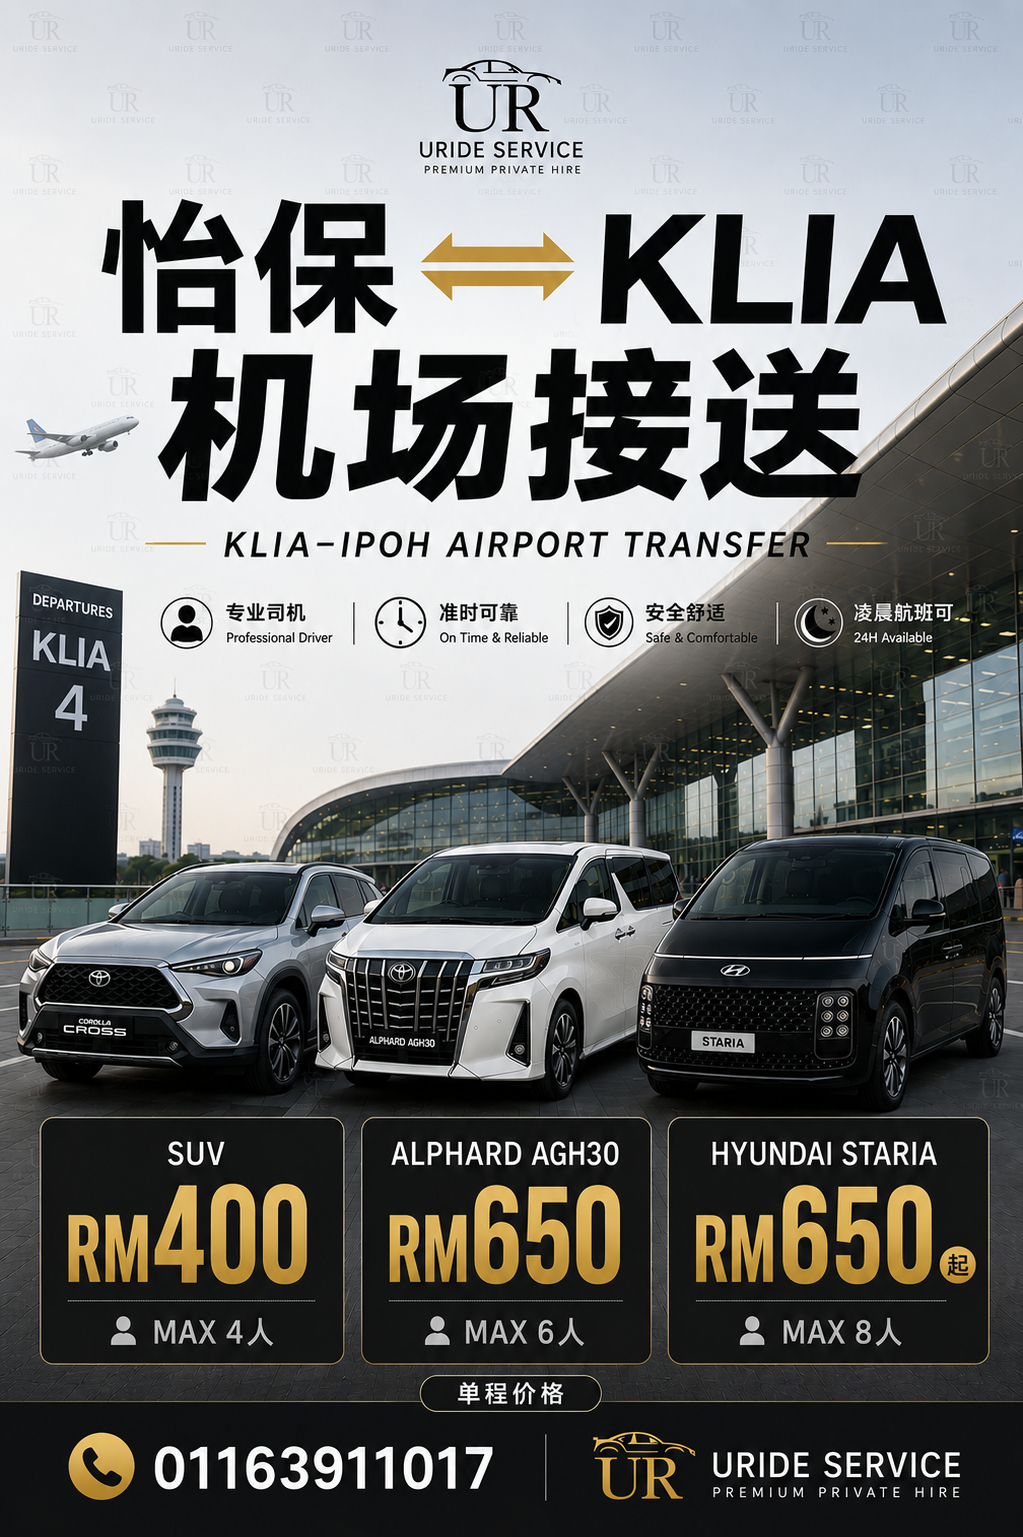
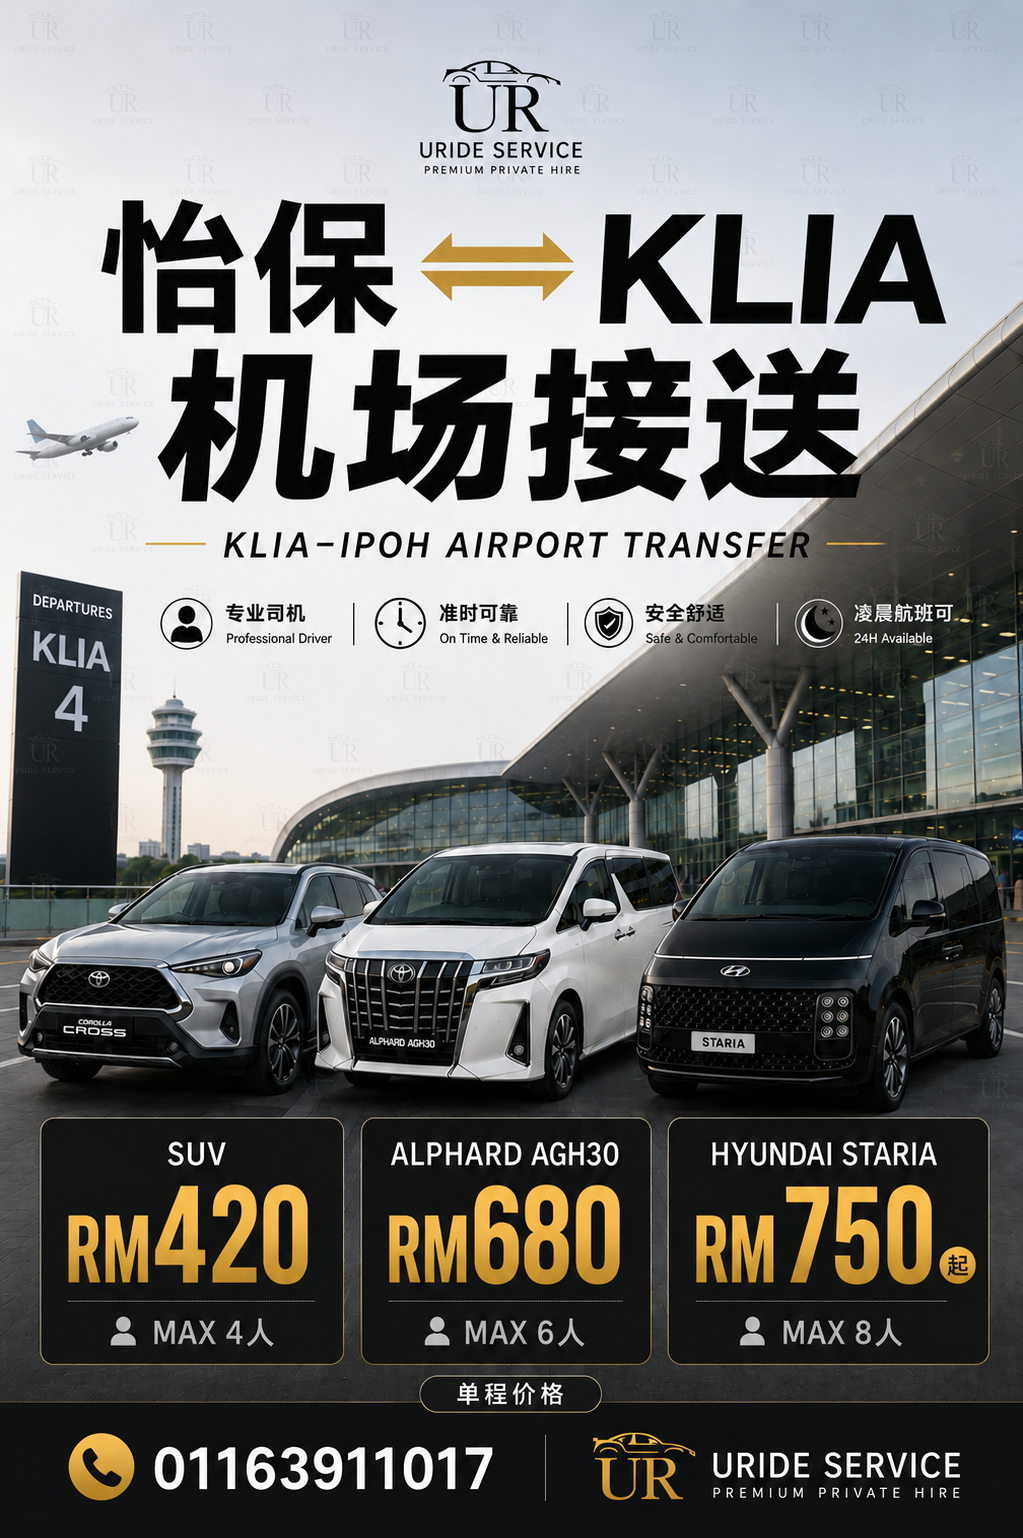
Update Ipoh-KLIA airport transfer fares

diff --git a/data.js b/data.js
@@ -10,7 +10,7 @@ window.URIDE_DATA = Object.freeze({
     Object.freeze({ name: "Hyundai Staria", model: "Hyundai Staria", colour: "Black", colourZh: "黑色", maxPassengers: 8, maxLuggage: 6, lateNightSurcharge: 50, surcharge: 50, image: "public/images/hyundai-staria-black-2025.webp" })
   ]),
   airportTransfer: Object.freeze([
-    Object.freeze({ destination: "Ipoh", destinationZh: "Ipoh", route: "KLIA / KLIA2 ⇄ Ipoh", routeZh: "KLIA / KLIA2 ⇄ Ipoh", prices: [400, 650, 750] }),
+    Object.freeze({ destination: "Ipoh", destinationZh: "Ipoh", route: "KLIA / KLIA2 ⇄ Ipoh", routeZh: "KLIA / KLIA2 ⇄ Ipoh", prices: [420, 680, 750] }),
     Object.freeze({ destination: "Chemor / Sg. Siput", destinationZh: "Chemor / Sg. Siput", route: "KLIA / KLIA2 ⇄ Chemor / Sg. Siput", routeZh: "KLIA / KLIA2 ⇄ Chemor / Sg. Siput", prices: [450, 680, 780] }),
     Object.freeze({ destination: "Tg Tualang / Batu Gajah", destinationZh: "Tg Tualang / Batu Gajah", route: "KLIA / KLIA2 ⇄ Tg Tualang / Batu Gajah", routeZh: "KLIA / KLIA2 ⇄ Tg Tualang / Batu Gajah", prices: [450, 700, 780] }),
     Object.freeze({ destination: "Kuala Kangsar / Taiping", destinationZh: "Kuala Kangsar / Taiping", route: "KLIA / KLIA2 ⇄ Kuala Kangsar / Taiping", routeZh: "KLIA / KLIA2 ⇄ Kuala Kangsar / Taiping", prices: [550, "750 – 800", "800 – 850"], locationVariable: true }),
